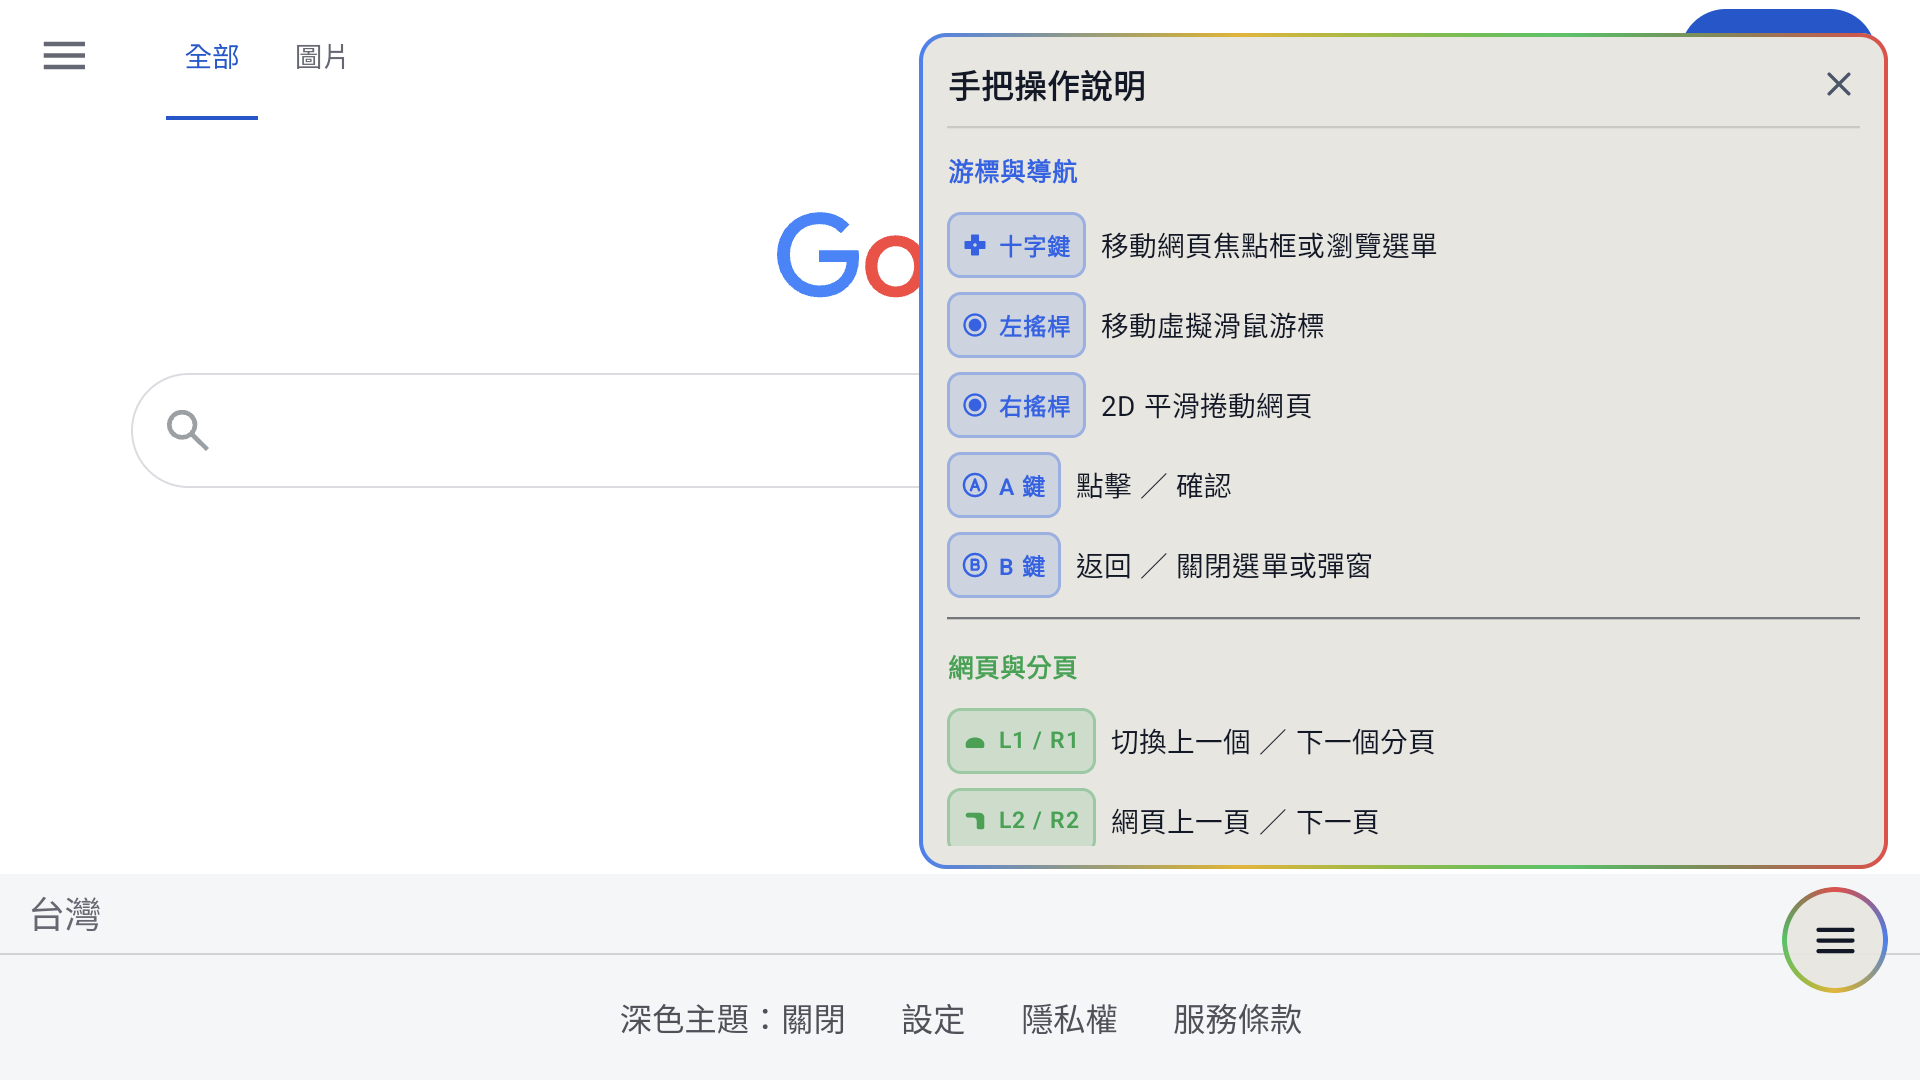
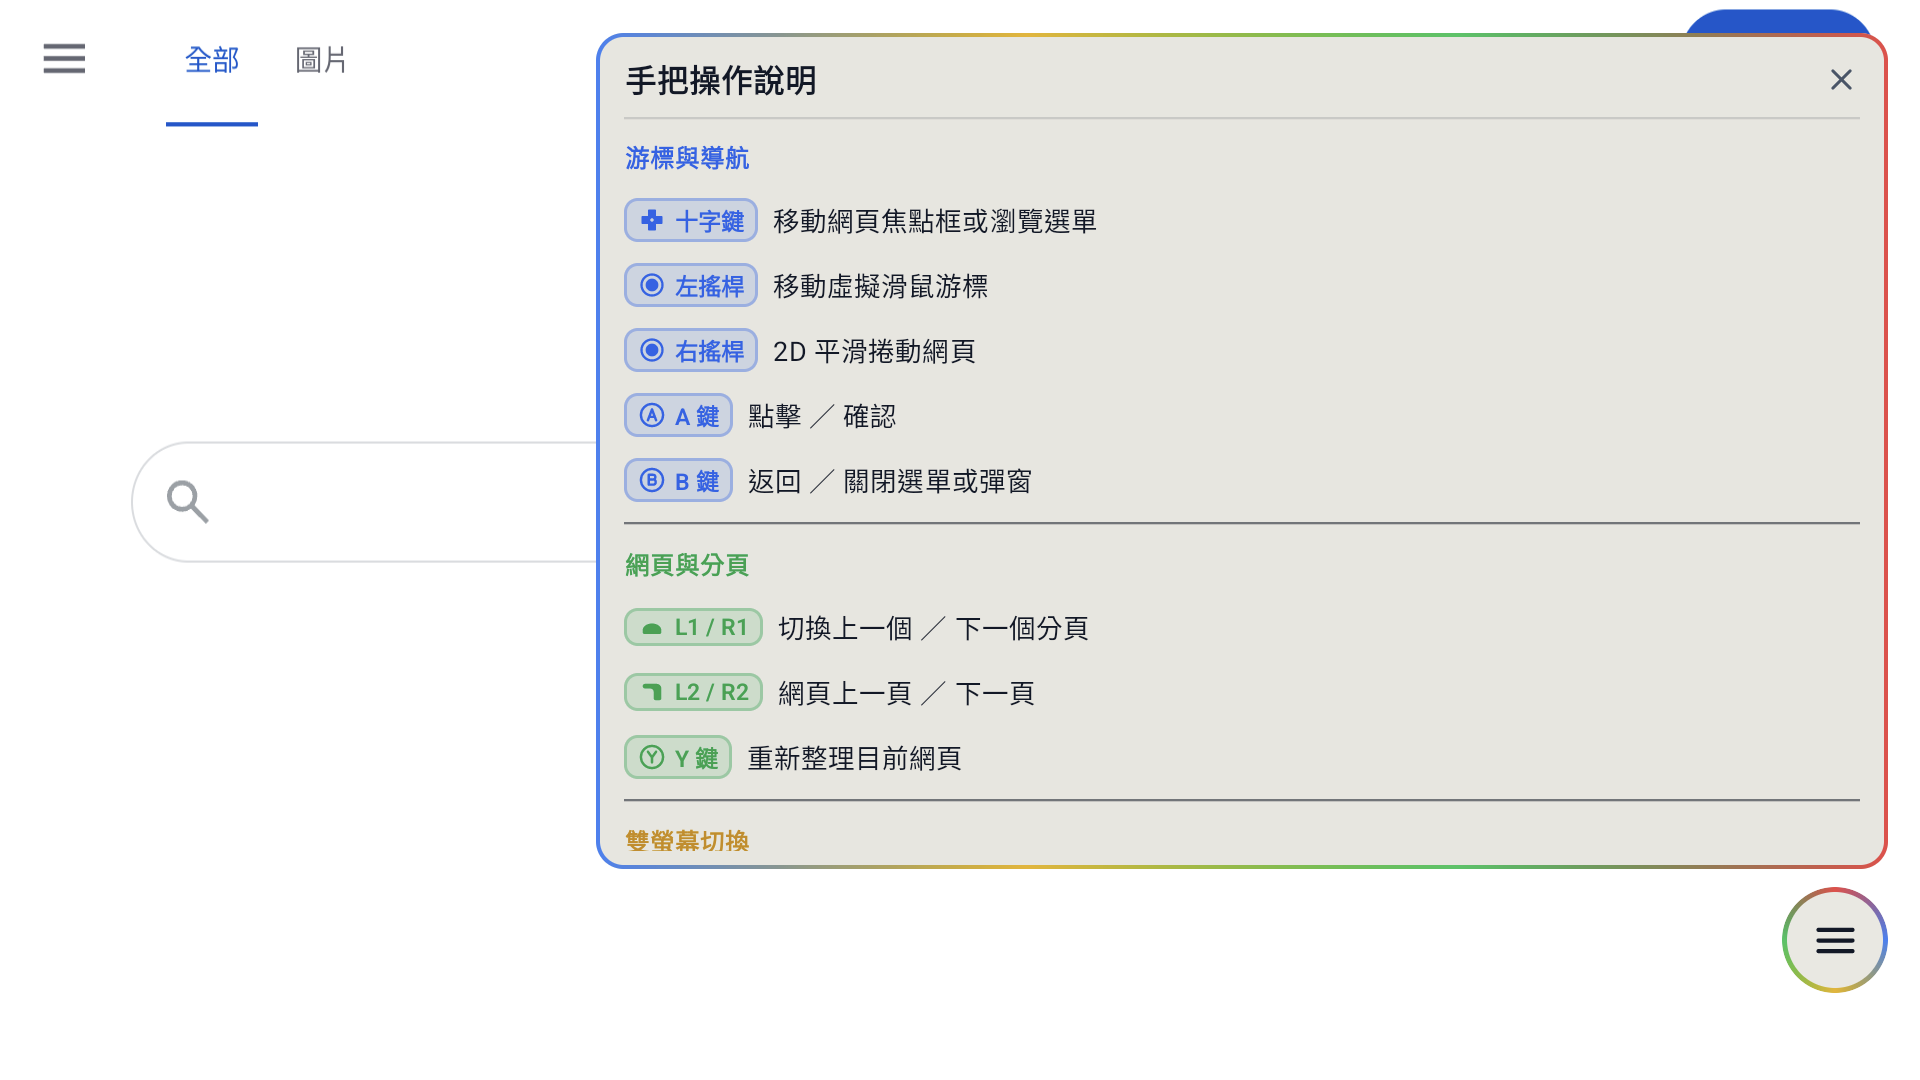
style(ui,docs): widen and tighten top gamepad guide chips; refresh Thor screenshot

diff --git a/app/src/main/java/com/yangyws/dualscreenbrowser/MainActivity.kt b/app/src/main/java/com/yangyws/dualscreenbrowser/MainActivity.kt
@@ -1395,10 +1395,10 @@ private fun DualScreenBrowserApp(
                         )
                     Column(
                         modifier = Modifier
-                            .widthIn(min = 320.dp, max = 420.dp)
-                            .padding(horizontal = 12.dp, vertical = 10.dp)
+                            .widthIn(min = 460.dp, max = 560.dp)
+                            .padding(horizontal = 12.dp, vertical = 8.dp)
                             .verticalScroll(rememberScrollState()),
-                        verticalArrangement = Arrangement.spacedBy(6.dp)
+                        verticalArrangement = Arrangement.spacedBy(2.dp)
                     ) {
                         Row(
                             modifier = Modifier.fillMaxWidth(),
@@ -1407,7 +1407,7 @@ private fun DualScreenBrowserApp(
                         ) {
                             Text(
                                 text = stringResource(R.string.action_gamepad_guide),
-                                fontSize = 14.sp,
+                                fontSize = 13.5.sp,
                                 fontWeight = FontWeight.SemiBold,
                                 color = MaterialTheme.colorScheme.onSurface
                             )
@@ -1416,34 +1416,39 @@ private fun DualScreenBrowserApp(
                                 contentDescription = stringResource(R.string.action_close),
                                 tint = MaterialTheme.colorScheme.onSurfaceVariant,
                                 modifier = Modifier
-                                    .size(18.dp)
+                                    .size(16.dp)
                                     .clickable { showGamepadGuidePopup = false }
                             )
                         }
-                        HorizontalDivider(color = MaterialTheme.colorScheme.outlineVariant)
+                        HorizontalDivider(
+                            color = MaterialTheme.colorScheme.outlineVariant,
+                            modifier = Modifier.padding(vertical = 2.dp)
+                        )
                         guideGroups.forEachIndexed { groupIdx, (groupTitleRes, groupColor, items) ->
                             if (groupIdx > 0) {
                                 HorizontalDivider(
                                     color = MaterialTheme.colorScheme.outlineVariant.copy(alpha = 0.55f),
-                                    modifier = Modifier.padding(vertical = 2.dp)
+                                    modifier = Modifier.padding(vertical = 3.dp)
                                 )
                             }
                             Text(
                                 text = stringResource(groupTitleRes),
-                                fontSize = 11.sp,
+                                fontSize = 10.5.sp,
                                 fontWeight = FontWeight.Bold,
                                 color = groupColor
                             )
                             items.forEach { (keyRes, descRes) ->
                                 Row(
-                                    modifier = Modifier.fillMaxWidth(),
+                                    modifier = Modifier
+                                        .fillMaxWidth()
+                                        .padding(vertical = 1.dp),
                                     horizontalArrangement = Arrangement.spacedBy(6.dp),
                                     verticalAlignment = Alignment.CenterVertically
                                 ) {
                                     GamepadGuideKeyChips(keyRes = keyRes, groupColor = groupColor)
                                     Text(
                                         text = stringResource(descRes),
-                                        fontSize = 12.sp,
+                                        fontSize = 11.5.sp,
                                         color = MaterialTheme.colorScheme.onSurface,
                                         maxLines = 2,
                                         overflow = TextOverflow.Ellipsis

diff --git a/app/src/main/java/com/yangyws/dualscreenbrowser/ui/BrowserUiComponents.kt b/app/src/main/java/com/yangyws/dualscreenbrowser/ui/BrowserUiComponents.kt
@@ -190,10 +190,14 @@ fun StatusChip(
             Text(
                 text = label,
                 fontSize = 10.sp,
+                lineHeight = 12.sp,
                 fontWeight = FontWeight.SemiBold,
                 color = accentColor,
                 maxLines = 1,
-                overflow = TextOverflow.Ellipsis
+                overflow = TextOverflow.Ellipsis,
+                style = androidx.compose.ui.text.TextStyle(
+                    platformStyle = androidx.compose.ui.text.PlatformTextStyle(includeFontPadding = false)
+                )
             )
         }
     }

diff --git a/app/src/main/java/com/yangyws/dualscreenbrowser/browser/SecondaryBrowserPresentation.kt b/app/src/main/java/com/yangyws/dualscreenbrowser/browser/SecondaryBrowserPresentation.kt
@@ -2523,7 +2523,7 @@ class SecondaryBrowserPresentation(
         panel.addView(scroll, LinearLayout.LayoutParams(ViewGroup.LayoutParams.MATCH_PARENT, ViewGroup.LayoutParams.WRAP_CONTENT))
 
         val availableW = rootLayout?.width ?: context.resources.displayMetrics.widthPixels
-        val widthPx = (availableW - dp(16)).coerceIn(dp(340), dp(440))
+        val widthPx = (availableW - dp(16)).coerceIn(dp(380), dp(510))
         guidePopup = PopupWindow(panel, widthPx, ViewGroup.LayoutParams.WRAP_CONTENT, true).apply {
             isOutsideTouchable = true
             elevation = 0f
